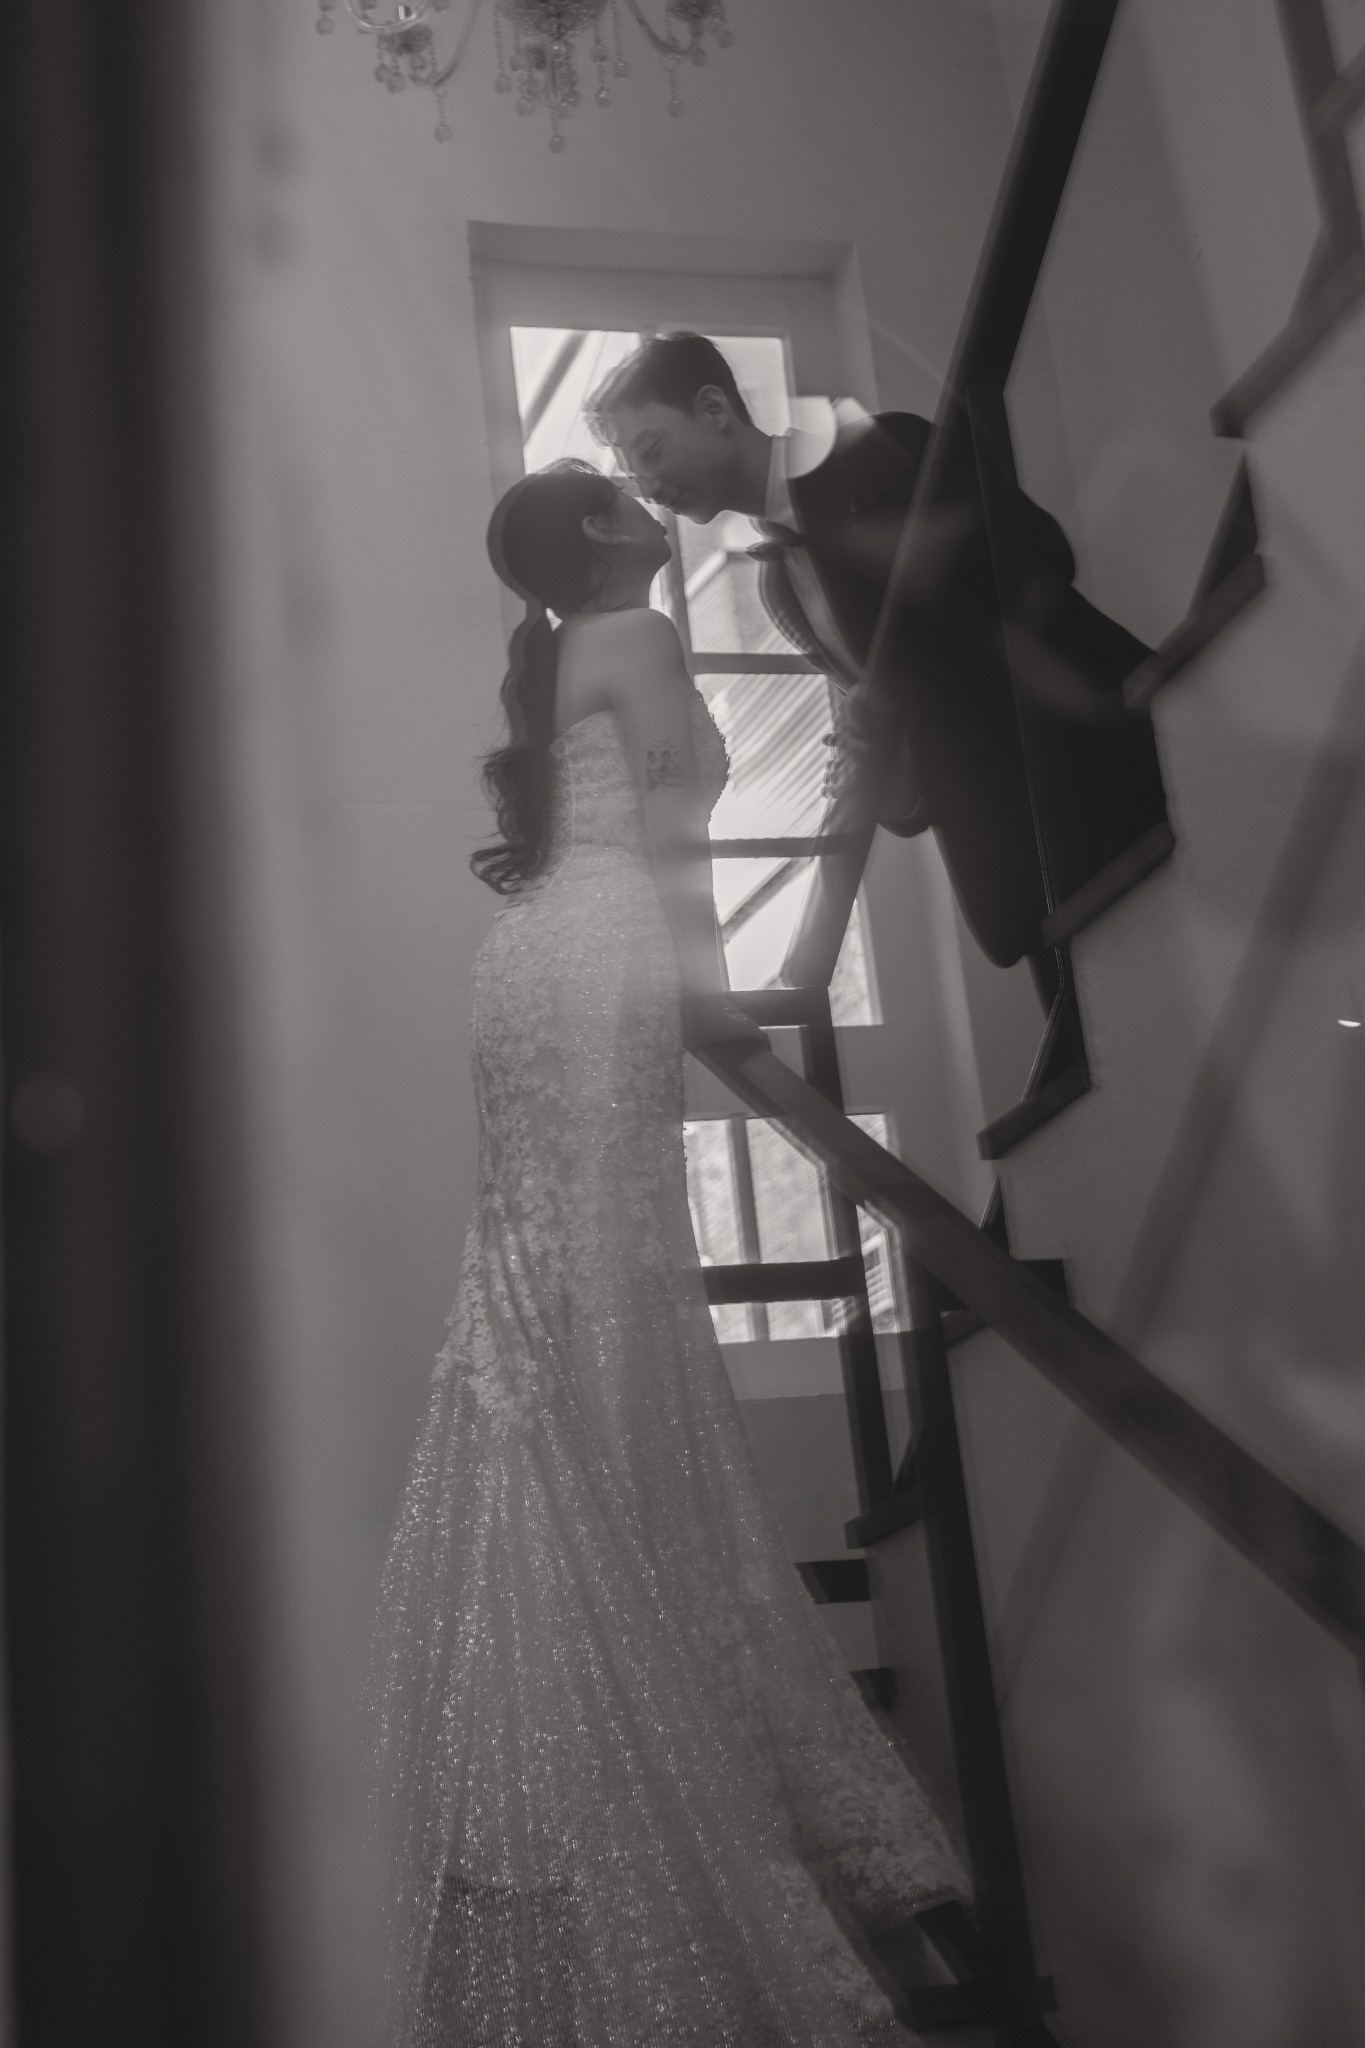
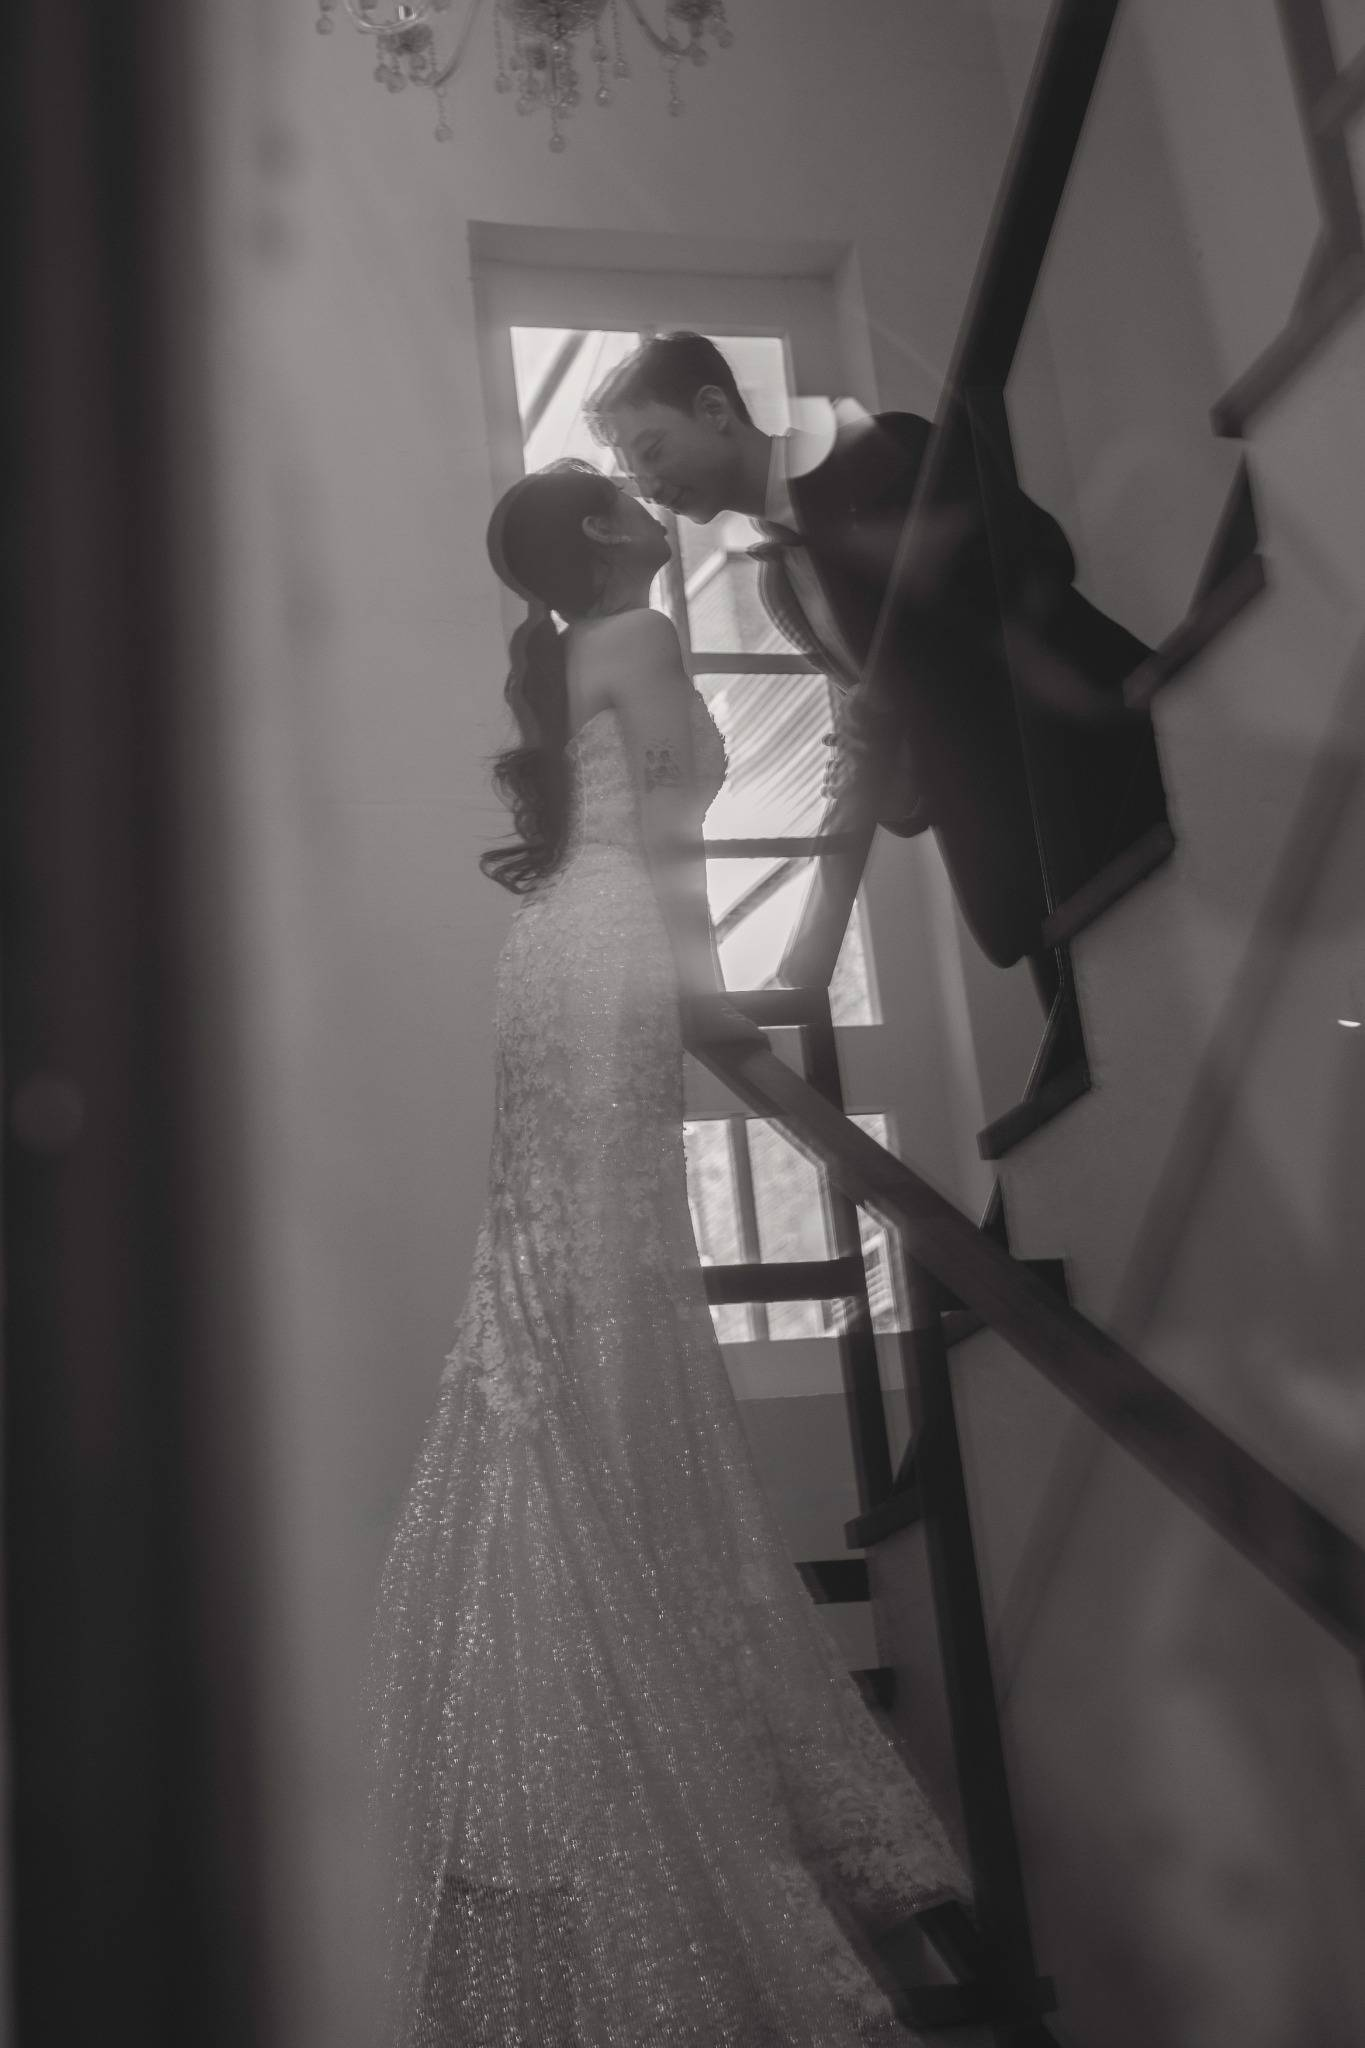
Fixed photos and some wordings

diff --git a/script.js b/script.js
@@ -10,7 +10,7 @@ const I18N = {
     names: {
       parents1: "Seongyong Jo & Hyekyung Byun's Son",
       groom: "Wonhee Jo",
-      parents2: "Jakie Chan · Lydia Leow's Daughter",
+      parents2: "Jakie Chan & Lydia Leow's Daughter",
       bride: "Averyl"
     },
     details: { heading: "The Day", sub: "Everything you need to know for a smooth, happy day." },
@@ -18,7 +18,7 @@ const I18N = {
       heading: "When",
       body: "4:00 PM Ceremony",
       body2: "Reception to follow",
-      body3: "6:00 PM Afterparty"
+      body3: "6:00 PM After party"
     },
     where: { heading: "Where", venueName: "Koreana Hotel", venueAddr: "Koreana Hotel, 135 Sejong-daero, Jung District, Seoul", map: "Open in Google Maps" },
     how: {
@@ -82,7 +82,7 @@ const I18N = {
       publicSub31: "간선버스 402, 709",
       publicSub32: "지선버스 799, 종로09, 종로11",
       driveHeading: "자가용",
-      driveBody: "하이파킹 코리아나호텔 주차장 (최대 2시간 무료)."
+      driveBody: "하이파킹 코리아나호텔 주차장."
     },
     gallery: { heading: "사진", sub: "몇 장 먼저 공개해요. 더 올라올 예정!" },
     comments: { heading: "메시지 남기기", submit: "등록", note: "댓글은 브라우저에만 저장됩니다." },

diff --git a/main.html b/main.html
@@ -29,7 +29,8 @@
     </section>
     <!-- Hero -->
     <section class="hero">
-      <img src="assets/img1_compressed.jpg" alt="Couple photo">
+      <!-- <img src="assets/img1_compressed.jpg" alt="Couple photo"> 
+    -->
       <div>
         <div class="kicker" data-i18n="hero.kicker">We’re getting married</div>
         <h1 data-i18n="hero.title">Alex & Jina</h1>
@@ -103,6 +104,7 @@
         <img src="assets/img13.jpg" alt="Gallery 11">
         <img src="assets/img14.jpg" alt="Gallery 12">
         <img src="assets/img15.jpg" alt="Gallery 13">
+        <img src="assets/img1_compressed.jpg" alt="Gallery 14">
       </div>
     </section>
 
